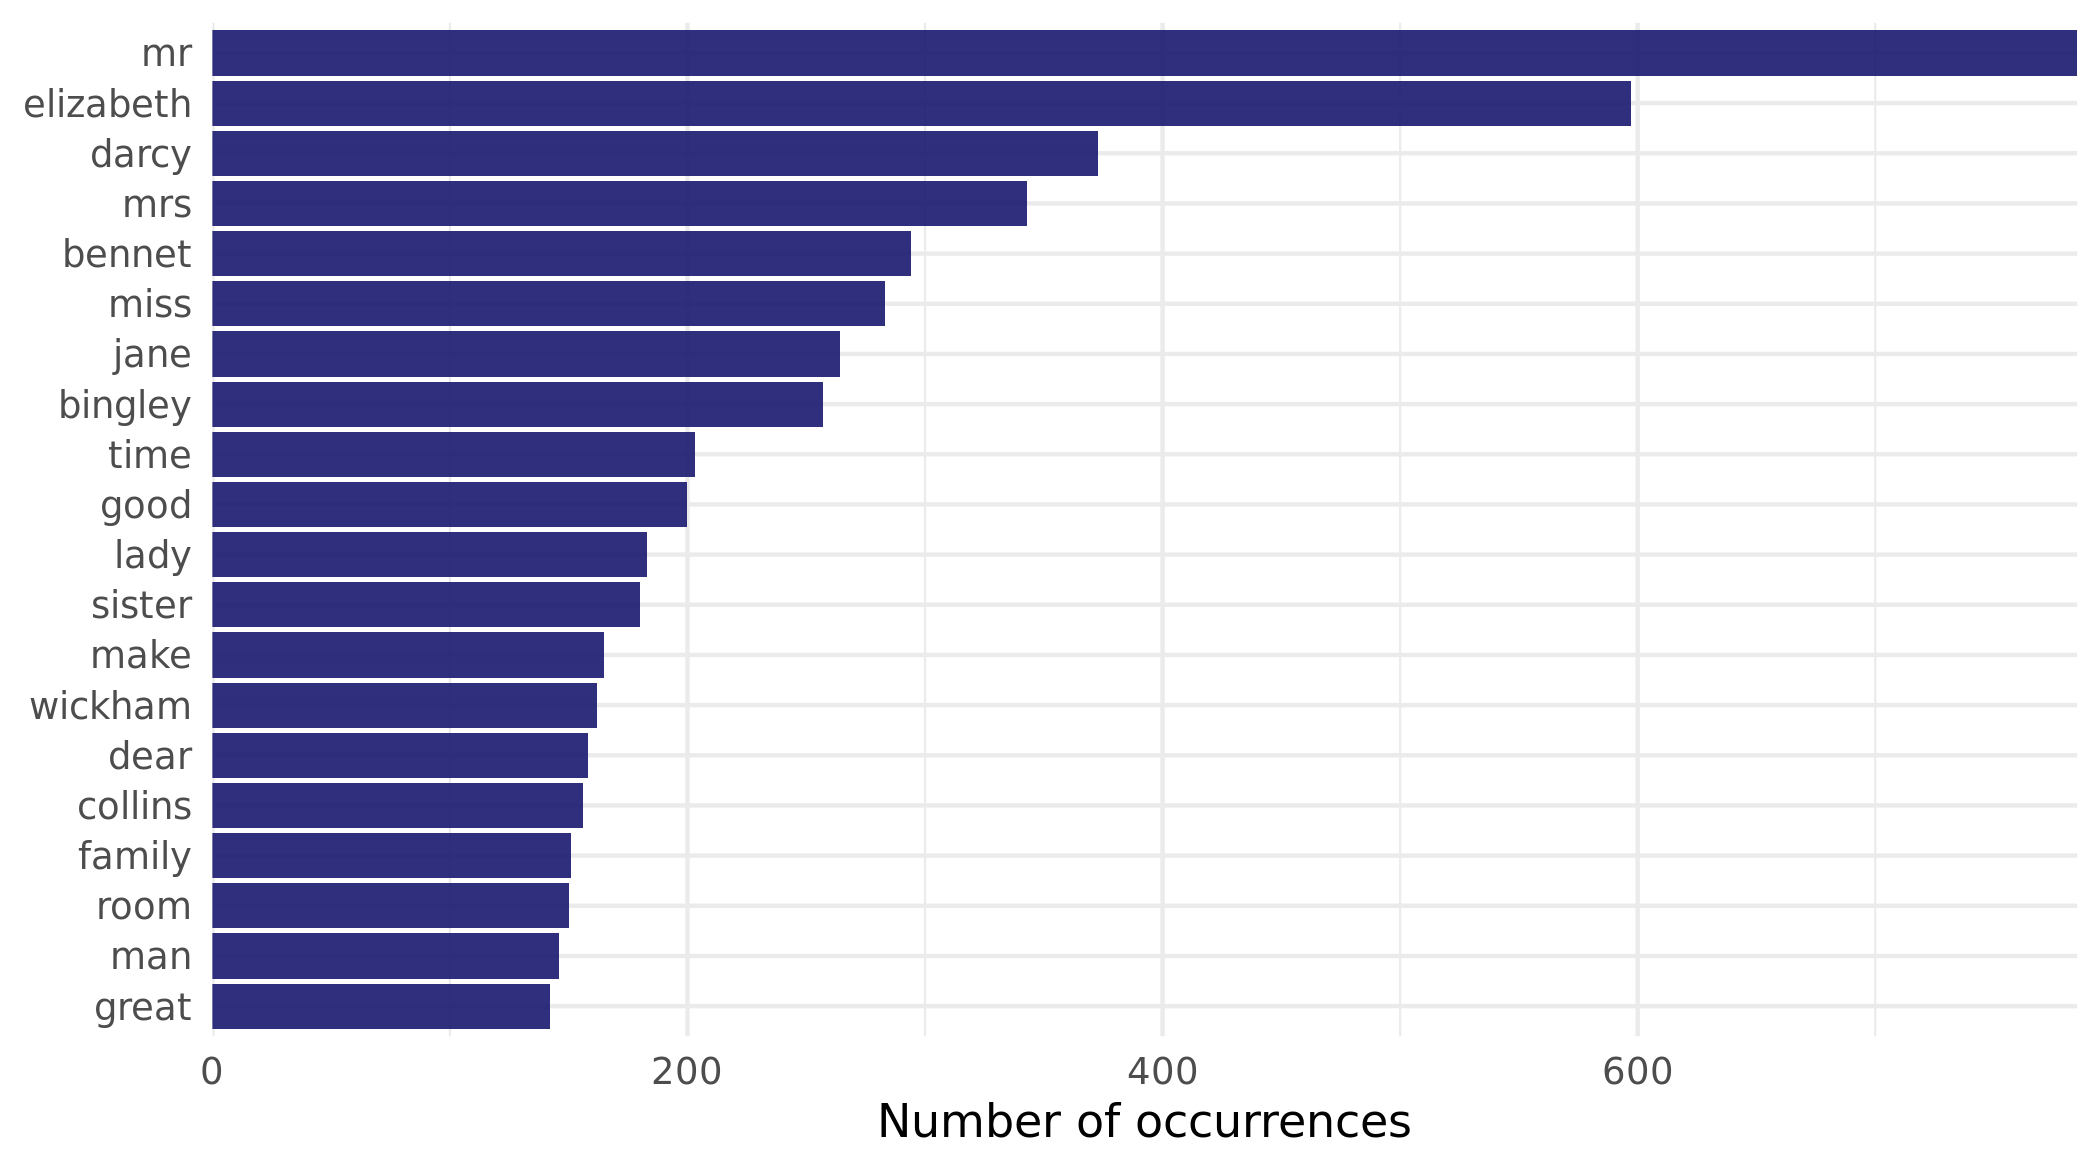
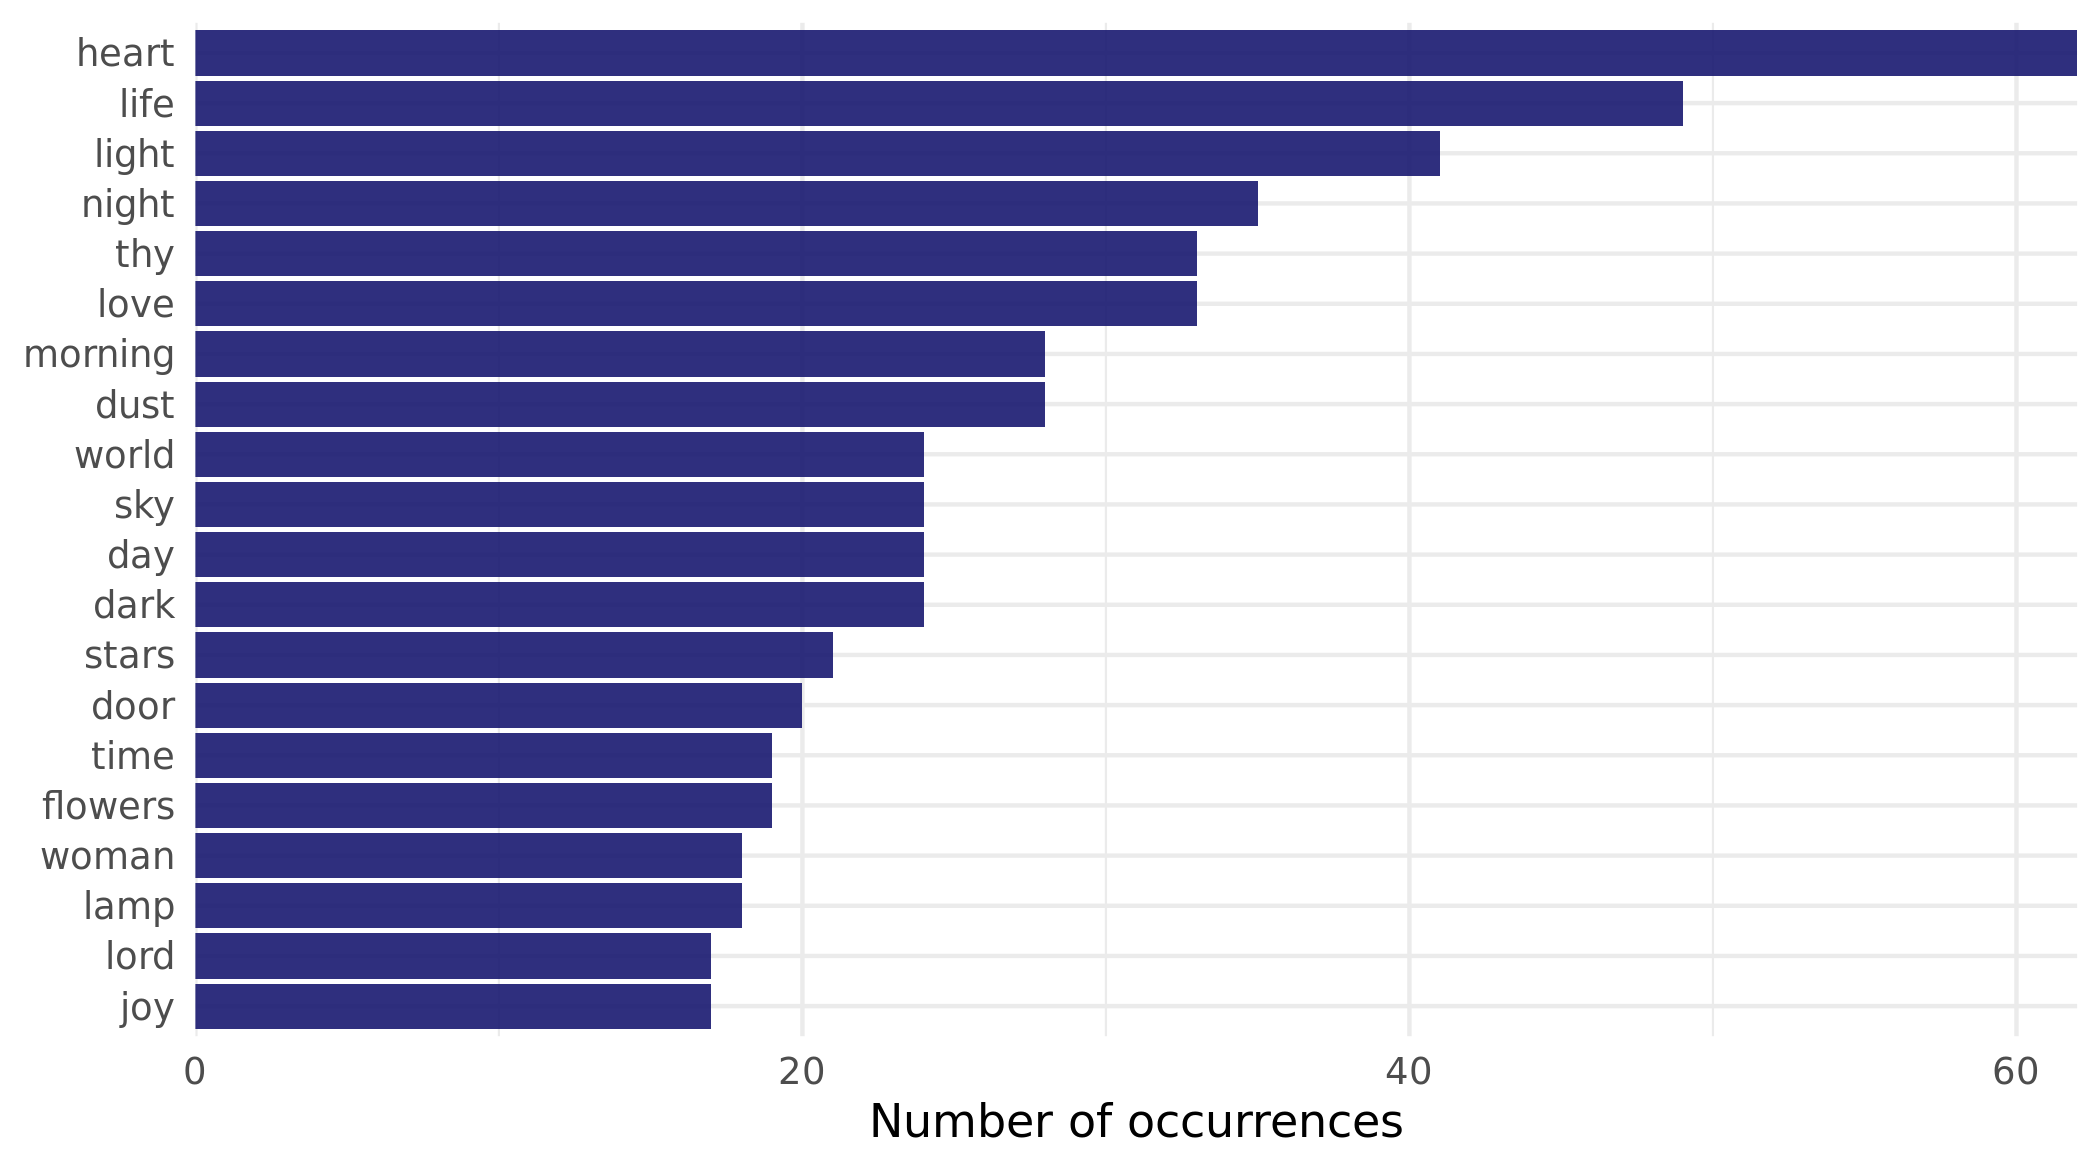
Further changes to slides

diff --git a/materials/slides/intro.html b/materials/slides/intro.html
@@ -136,31 +136,27 @@ class: middle, center
 
 # &lt;i class="fa fa-github"&gt;&lt;/i&gt;
 
-# GitHub repo for workshop:
+# GitHub repo for Text Mining Lessons:
 
-.large[[rstd.io/conf20-tidytext](https://rstd.io/conf20-tidytext)]
+.large[[github.com/FilippoChiarello/text-mining](https://github.com/FilippoChiarello/text-mining)]
 
 ---
 
 class: inverse
 
-## Plan for this workshop
+## Plan for introductory lessons
 
 --
 
-- .large[EDA for text *today*]
+- .large[*Part I*: EDA for text]
 
 --
 
-- .large[Modeling for text *tomorrow*]
+- .large[*Part II*: Modeling for text]
 
 --
 
 - .large[Log in to RStudio Cloud 💻]
-
---
-
-- .large[Introduce yourself to your neighbors 👋]
 
 ---
 class: middle, center
@@ -169,7 +165,7 @@ class: middle, center
 
 # Go here and log in (free):
 
-.large[[bit.ly/rstudio-text-course](http://bit.ly/rstudio-text-course)]
+.large[[bit.ly/rstudio-text-course](https://rstudio.cloud/spaces/95227/join?access_code=e%2FcgTuSzM5egcw0WiSP3ThXTXjIHYqMaSA6rJb3q)]
 
 ---
 
@@ -180,13 +176,9 @@ class: middle, center
 install.packages(c("tidyverse", 
                    "tidytext", 
                    "gutenbergr"))
-
-library(tidytext)
 ```
 
 ---
-
-&lt;img src="figs/purple_emily.png" style="position:absolute;top:20px;right:20px;" width="100px"/&gt;
 
 ## **What do we mean by tidy text?**
 
@@ -218,8 +210,6 @@ text
 
 ---
 
-&lt;img src="figs/purple_emily.png" style="position:absolute;top:20px;right:20px;" width="100px"/&gt;
-
 ## **What do we mean by tidy text?**
 
 
@@ -247,7 +237,7 @@ text_df
 
 ---
 
-&lt;img src="figs/purple_emily.png" style="position:absolute;top:20px;right:20px;" width="100px"/&gt;
+
 
 ## **What do we mean by tidy text?**
 
@@ -278,9 +268,7 @@ text_df %&gt;%
 
 ---
 
-&lt;img src="figs/blue_jane.png" width="150px"/&gt;
-
-## Jane wants to know...
+## Pop Quiz 🤔
 
 .large[A tidy text dataset typically has]
 
@@ -300,10 +288,10 @@ text_df %&gt;%
 ```r
 library(gutenbergr)
 
-full_text &lt;- gutenberg_download(1342)
+full_text &lt;- gutenberg_download(6522)
 ```
 
-.large[What book do *you* want to analyze today? 📖 👯♀ 📖]
+&lt;img src="figs/military.jpg" width="250px"/&gt; 
 
 ---
 
@@ -313,24 +301,26 @@ full_text &lt;- gutenberg_download(1342)
 ```r
 tidy_book &lt;- full_text %&gt;%
   mutate(line = row_number()) %&gt;%
-* unnest_tokens(word, text)
+  unnest_tokens(word, text)
 
-glimpse(tidy_book)
+tidy_book %&gt;% 
+  sample_n(10) %&gt;% 
+  glimpse()
 ```
 
 ```
-## Rows: 122,204
+## Rows: 10
 ## Columns: 3
-## $ gutenberg_id &lt;int&gt; 1342, 1342, 1342, 1342, 1342, 1342, 1342, 1342, 1342, 13…
-## $ line         &lt;int&gt; 1, 1, 1, 3, 3, 3, 7, 7, 10, 10, 10, 10, 10, 10, 10, 10, …
-## $ word         &lt;chr&gt; "pride", "and", "prejudice", "by", "jane", "austen", "ch…
+## $ gutenberg_id &lt;int&gt; 5614, 5614, 5614, 5614, 5614, 5614, 5614, 5614, 5614, 56…
+## $ line         &lt;int&gt; 6566, 12297, 2220, 9125, 4068, 1701, 10955, 1467, 12916,…
+## $ word         &lt;chr&gt; "8", "the", "the", "19", "in", "correct", "k2", "8", "23…
 ```
 
 ---
 
-## **What are the most common words?**
+## ## Pop Quiz 🤔
 
-.large[What do you predict will happen if we run the following code? 🤔]
+.large[What do you predict will happen if we run the following code?]
 
 
 ```r
@@ -340,7 +330,7 @@ tidy_book %&gt;%
 
 ---
 
-## **What are the most common words?**
+## Pop Quiz 🤔
 
 .large[What do you predict will happen if we run the following code? 🤔]
 
@@ -367,13 +357,6 @@ tidy_book %&gt;%
 ## # … with 6,528 more rows
 ```
 
----
-
-background-image: url(figs/stop.gif)
-background-size: 500px
-background-position: 50% 50%
-
-## **Stop words**
 
 ---
 
@@ -477,34 +460,6 @@ get_stopwords(source = "smart")
 ##  9 actually    smart  
 ## 10 after       smart  
 ## # … with 561 more rows
-```
-
----
-
-## **What are the most common words?**
-
-.unscramble[U N S C R A M B L E]
-
-```
-anti_join(get_stopwords(source = "smart")) %&gt;%
-```
-```
-tidy_book %&gt;%
-```
-```
-count(word, sort = TRUE) %&gt;%
-```
-```
-coord_flip()
-```
-```
-geom_col() +
-```
-```
-top_n(20) %&gt;%
-```
-```
-ggplot(aes(fct_reorder(word, n), n)) +  
 ```
 
 ---
